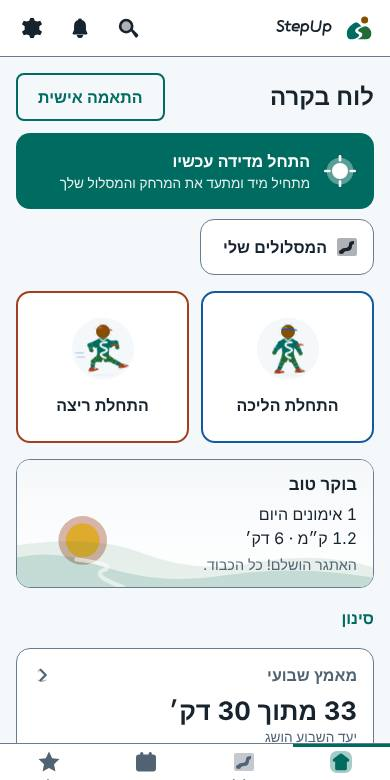
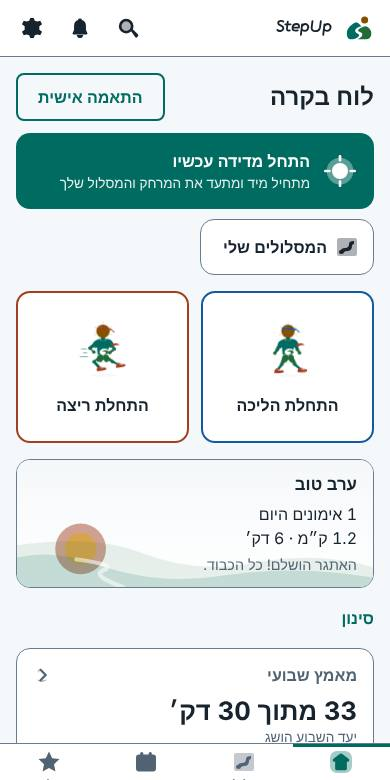
0.22.0: Trail from the designer rig with a round plate and larger figures (WIP)
Claude-Session: https://claude.ai/code/session_015MgUfxYvuaf2H4JGRA2gxD

diff --git a/web/sw.js b/web/sw.js
@@ -1,5 +1,5 @@
 // Offline-first service worker. VERSION is kept equal to version.json by scripts/bump-version.mjs (a unit test enforces it).
-const VERSION = '0.21.0';
+const VERSION = '0.22.0';
 const CACHE = `stepup-${VERSION}`;
 const SHELL = ['./', 'index.html', 'manifest.webmanifest', 'version.json', 'icon.svg', 'css/packs.css', 'css/app.css',
   'js/app.js', 'js/routePlan.js', 'js/planner.js', 'js/planApi.js', 'js/ui/mapScreen.js', 'js/ui/planner.js', 'js/theme-boot.js', 'js/util.js', 'js/i18n.js', 'js/native.js', 'js/icons.js', 'js/brand.js', 'js/brandData.js', 'js/iconData.js', 'js/geo.js', 'js/workout.js', 'js/metronome.js', 'js/cadence.js', 'js/audio.js', 'js/format.js', 'js/store.js', 'js/ui/home.js', 'js/plan.js', 'js/indicators.js', 'js/appVersion.js', 'js/art.js', 'js/voice.js', 'js/records.js', 'js/facts.js', 'js/actions.js', 'js/guide.js', 'js/strings08.js', 'js/strings09.js', 'js/figureData.js', 'js/ui/guide.js', 'art/workout/banner-afternoon-dark.svg', 'art/workout/banner-afternoon-light.svg', 'art/workout/banner-evening-dark.svg', 'art/workout/banner-evening-light.svg', 'art/workout/banner-morning-dark.svg', 'art/workout/banner-morning-light.svg', 'art/workout/banner-night-dark.svg', 'art/workout/banner-night-light.svg', 'art/workout/card-forest-dark.svg', 'art/workout/card-forest-light.svg', 'art/workout/card-ocean-dark.svg', 'art/workout/card-ocean-light.svg', 'art/workout/card-sunrise-dark.svg', 'art/workout/card-sunrise-light.svg', 'art/workout/count-1-dark.svg', 'art/workout/count-1-light.svg', 'art/workout/count-2-dark.svg', 'art/workout/count-2-light.svg', 'art/workout/count-3-dark.svg', 'art/workout/count-3-light.svg', 'art/workout/count-4-dark.svg', 'art/workout/count-4-light.svg', 'art/workout/count-5-dark.svg', 'art/workout/count-5-light.svg', 'art/workout/count-go-dark.svg', 'art/workout/count-go-light.svg', 'art/workout/hint-double-tap-dark.svg', 'art/workout/hint-double-tap-light.svg', 'art/workout/hint-volume-keys-dark.svg', 'art/workout/hint-volume-keys-light.svg', 'js/ui/workoutShare.js', 'js/shareCard.js', 'js/metrics.js', 'js/gpx.js', 'js/daypart.js', 'js/challenge.js', 'art/celebrate/avatar-frame-dark.svg', 'art/celebrate/avatar-frame-light.svg', 'art/celebrate/confetti-circle-dark.svg', 'art/celebrate/confetti-circle-light.svg', 'art/celebrate/confetti-curl-dark.svg', 'art/celebrate/confetti-curl-light.svg', 'art/celebrate/confetti-rectangle-dark.svg', 'art/celebrate/confetti-rectangle-light.svg', 'art/celebrate/confetti-star-dark.svg', 'art/celebrate/confetti-star-light.svg', 'art/celebrate/confetti-triangle-dark.svg', 'art/celebrate/confetti-triangle-light.svg', 'art/celebrate/distance-record-dark.svg', 'art/celebrate/distance-record-light.svg', 'art/celebrate/fastest-kilometre-dark.svg', 'art/celebrate/fastest-kilometre-light.svg', 'art/celebrate/forest-dark.svg', 'art/celebrate/forest-light.svg', 'art/celebrate/laurel-dark.svg', 'art/celebrate/laurel-light.svg', 'art/celebrate/longest-streak-dark.svg', 'art/celebrate/longest-streak-light.svg', 'art/celebrate/medal-dark.svg', 'art/celebrate/medal-light.svg', 'art/celebrate/most-workouts-week-dark.svg', 'art/celebrate/most-workouts-week-light.svg', 'art/celebrate/ocean-dark.svg', 'art/celebrate/ocean-light.svg', 'art/celebrate/pace-record-dark.svg', 'art/celebrate/pace-record-light.svg', 'art/celebrate/podium-floor-dark.svg', 'art/celebrate/podium-floor-light.svg', 'art/celebrate/podium-steps-dark.svg', 'art/celebrate/podium-steps-light.svg', 'art/celebrate/rays-dark.svg', 'art/celebrate/rays-light.svg', 'art/celebrate/ribbon-dark.svg', 'art/celebrate/ribbon-light.svg', 'art/celebrate/sunrise-dark.svg', 'art/celebrate/sunrise-light.svg', 'art/celebrate/trophy-dark.svg', 'art/celebrate/trophy-light.svg', 'js/podiumCard.js', 'js/ui/podium.js', 'js/mapView.js', 'js/ui/maptiles.js', 'js/backup.js', 'js/ui/backup.js', 'art/badges/almost-distance-dark.svg', 'art/badges/almost-distance-light.svg', 'art/badges/almost-record-dark.svg', 'art/badges/almost-record-light.svg', 'art/badges/faster-last-dark.svg', 'art/badges/faster-last-light.svg', 'art/badges/fastest-km-dark.svg', 'art/badges/fastest-km-light.svg', 'art/badges/new-record-dark.svg', 'art/badges/new-record-light.svg', 'art/badges/passed-distance-dark.svg', 'art/badges/passed-distance-light.svg', 'art/onboarding/caught-up-dark.svg', 'art/onboarding/caught-up-light.svg', 'art/onboarding/no-plan-dark.svg', 'art/onboarding/no-plan-light.svg', 'art/onboarding/no-routes-dark.svg', 'art/onboarding/no-routes-light.svg', 'art/onboarding/no-workouts-dark.svg', 'art/onboarding/no-workouts-light.svg', 'art/onboarding/offline-dark.svg', 'art/onboarding/offline-light.svg', 'art/onboarding/welcome-dark.svg', 'art/onboarding/welcome-light.svg', 'art/weather/clear-dark.svg', 'art/weather/clear-light.svg', 'art/weather/cloudy-dark.svg', 'art/weather/cloudy-light.svg', 'art/weather/cold-dark.svg', 'art/weather/cold-light.svg', 'art/weather/hot-dark.svg', 'art/weather/hot-light.svg', 'art/weather/rain-dark.svg', 'art/weather/rain-light.svg', 'art/weather/windy-dark.svg', 'art/weather/windy-light.svg', 'js/update.js', 'js/strings07.js', 'js/ui/about.js', 'js/strings06.js', 'js/ui/plan.js', 'js/schedule.js', 'js/widgetData.js', 'js/syncNative.js', 'js/strings05.js', 'js/route.js', 'js/routeReco.js', 'js/strings04.js', 'js/ui/routes.js', 'js/ui/livemap.js', 'js/forecast.js', 'js/reco.js', 'js/weatherApi.js', 'js/strings03.js', 'js/ui/reco.js', 'js/stats.js', 'js/steps.js', 'js/effort.js', 'js/reminders.js', 'js/alerts.js', 'js/search.js', 'js/charts.js', 'js/reminderLoop.js', 'js/strings02.js', 'js/ui/dashboard.js', 'js/ui/alerts.js', 'js/ui/search.js', 'js/ui/notify.js', 'js/ui/settings.js', 'js/ui/history.js', 'js/ui/workout.js', 'js/ui/rhythm.js',

diff --git a/web/css/app.css b/web/css/app.css
@@ -292,7 +292,7 @@ body[data-sun="1"][data-view="workout"] .val { font-weight: 900; } body[data-sun
 /* calm animations (Settings) stop every moving part; the poses and the needle stay where they are */
 html[data-calm="1"] .anim-on [class^="m-"], html[data-calm="1"] .anim-on [class*=" m-"], html[data-calm="1"].anim-on [class*="m-"] { animation: none !important; }
 html[data-calm="1"] .anim-on .tier1-icon [class^="m-"]:not(.m-needle), html[data-calm="1"] .anim-on .tier1-icon [class*=" m-"]:not(.m-needle) { transform: none !important; }
-.figure { display: block; flex: none; } .start-card .figure { inline-size: 64px; block-size: 64px; } .start-card { gap: 12px; } .welcome .figure, .summary .figure { inline-size: 96px; block-size: 96px; }
+.figure { display: block; flex: none; } .start-card .figure { inline-size: 80px; block-size: 80px; } .start-card { gap: 12px; } .welcome .figure, .summary .figure { inline-size: 112px; block-size: 112px; }
 .metric .cap .tier1-icon, .cap .tier1-icon { overflow: visible; }
 
 /* ---- Trail, the athlete (hand-built rig): moves only inside .anim-on; each limb turns around its own joint (--o-<part>, set from the file); the calm switch stops it ---- */
@@ -336,4 +336,6 @@ html[data-calm="1"] .trail-companion * { animation: none !important; }
 @media (prefers-reduced-motion: reduce) { .trail-companion * { animation: none !important; } }
 .welcome .figure, .summary .figure { inline-size: 96px; block-size: 96px; } .welcome .figure { margin-inline: auto; } .summary .figure { margin: 0 auto 4px; }
 .cdwrap { display: grid; justify-items: center; gap: 6px; } .cdwrap .cd-img { inline-size: min(44vmin, 240px); } .cdwrap .figure { inline-size: 110px; block-size: 110px; }
-.guide > .figure { margin: 0 auto 8px; inline-size: 96px; block-size: 96px; } .gtalk { display: flex; gap: 12px; align-items: flex-start; } .gtalk .figure { inline-size: 64px; block-size: 64px; } .gtalk .gtext { margin: 0; }
+.guide > .figure { margin: 0 auto 8px; inline-size: 112px; block-size: 112px; } .gtalk { display: flex; gap: 12px; align-items: flex-start; } .gtalk .figure { inline-size: 72px; block-size: 72px; } .gtalk .gtext { margin: 0; }
+/* the character stands on a soft round plate in the brand tint (the hand-built rig has no plate of its own) */
+.figure.trail-companion { border-radius: 50%; background: color-mix(in srgb, var(--primary) 9%, var(--surface)); }

diff --git a/web/js/appVersion.js b/web/js/appVersion.js
@@ -1,2 +1,2 @@
 // The version of the code that is running (kept equal to version.json by scripts/bump-version.mjs; a unit test enforces it).
-export const APP_VERSION = '0.21.0';
+export const APP_VERSION = '0.22.0';

diff --git a/docs/CONTEXT.md b/docs/CONTEXT.md
@@ -6,8 +6,8 @@ Read this first in a new session. It says what the product is, where everything 
 **StepUp** (repo `ohadsam/distance_analyzer`): a walking and running tracker. One vanilla-JS web app (`web/`, no build step, no runtime dependencies) shipped as a **PWA** (GitHub Pages) and as a thin **Android WebView app** (`android/`, same `web/` folder as assets). Hebrew (RTL) is the default, English is chosen in Settings. No server, no account; data stays on the device. Branch `main` is the primary branch.
 Owner's standing rules live in `.claude/skills/release-checklist/SKILL.md` (section 0). Requests and their status: `docs/REQUESTS.md`. Plan: `docs/ROADMAP.md`.
 
-## Status (0.21.0)
-Done: **Trail V5 (15 connected poses) with the countdown and the guide (0.21.0)**, **Trail as an athlete (kit V3) on the start cards, welcome, summary and the user guide (0.20.0)**, **redesigned single-colour icons, Trail (the logo-born companion character, 8 poses) on the start cards / welcome / summary, live speed gauge, active navigation icons, calm-animations switch (0.19.0)**, **user guide (interactive tour with screenshots), search over actions / your data / the guide, a clear live map, a quiet first-run home, map screen with distance measuring, route planner by address and distance (0.18.0)**, **workout visual kit: banners, workout cards, countdown numerals, hints, number icons (0.17.0)**, **choose your workout numbers, day card, history sort/records/GPX/share picture, hands-free, countdown, wide layout (0.16.0)**, **new minimal workout screen, background voice, stop hint, sunlight mode, weekly challenge + Sunday summary, kit podium (0.15.0)**, **opt-in street map, battery optimisation, record celebration with victory photo (0.14.0)**, **backup/restore, week-bars widget, monthly summary (0.13.0)**, **rhythm coach and charts in the kit's look, folded filters, spoken cues (0.12.0)**, **kit art integrated: empty states, weather banner, indication badges, widget backgrounds, Android 12 splash (0.11.0)**, **update check, newest-APK download and share from inside the app (0.10.0)**, **two more Android widgets (last workout, next session) with a designed background (0.9.1, launcher verification pending)**, **bottom navigation, collapsible settings, lighter first dashboard, welcome card (0.9.0)**, **live in-workout indications (records, last time, faster km - 0.8.1)**, **training plans (build, week view, auto-match, gentle catch-up, reminders - 0.8.1)**, Android home-screen widgets (steps, weekly effort, measure now - 0.7.0, launcher verification pending)**, Android background (screen-off tracking, all-day steps, notifications when closed - 0.6.0, real-device verification pending)**, quick actions, routes (save, recognise, progress, suggestions, one-time, follow with ghost), tile-less live map (0.5.0)**, recommendations by weather and routine (0.4.0, opt-in network)**, workout mode (GPS distance/pace/splits, pause, lock, resume), smart rhythm coach (metronome + breathing guide), history, design foundation + StepUp brand, effort bar by age and history with deviation alerts, quality-weighted steps, dashboard (customisable widgets, filters, drill-down), alerts inbox, global search, reminders (fixed + smart nudges, while the app is open), manual weather per workout with weather-aware stats.
+## Status (0.22.0)
+Done: **Trail from the designer brief (10 poses, per-pose joint pivots) (0.22.0)**, **Trail V5 (15 connected poses) with the countdown and the guide (0.21.0)**, **Trail as an athlete (kit V3) on the start cards, welcome, summary and the user guide (0.20.0)**, **redesigned single-colour icons, Trail (the logo-born companion character, 8 poses) on the start cards / welcome / summary, live speed gauge, active navigation icons, calm-animations switch (0.19.0)**, **user guide (interactive tour with screenshots), search over actions / your data / the guide, a clear live map, a quiet first-run home, map screen with distance measuring, route planner by address and distance (0.18.0)**, **workout visual kit: banners, workout cards, countdown numerals, hints, number icons (0.17.0)**, **choose your workout numbers, day card, history sort/records/GPX/share picture, hands-free, countdown, wide layout (0.16.0)**, **new minimal workout screen, background voice, stop hint, sunlight mode, weekly challenge + Sunday summary, kit podium (0.15.0)**, **opt-in street map, battery optimisation, record celebration with victory photo (0.14.0)**, **backup/restore, week-bars widget, monthly summary (0.13.0)**, **rhythm coach and charts in the kit's look, folded filters, spoken cues (0.12.0)**, **kit art integrated: empty states, weather banner, indication badges, widget backgrounds, Android 12 splash (0.11.0)**, **update check, newest-APK download and share from inside the app (0.10.0)**, **two more Android widgets (last workout, next session) with a designed background (0.9.1, launcher verification pending)**, **bottom navigation, collapsible settings, lighter first dashboard, welcome card (0.9.0)**, **live in-workout indications (records, last time, faster km - 0.8.1)**, **training plans (build, week view, auto-match, gentle catch-up, reminders - 0.8.1)**, Android home-screen widgets (steps, weekly effort, measure now - 0.7.0, launcher verification pending)**, Android background (screen-off tracking, all-day steps, notifications when closed - 0.6.0, real-device verification pending)**, quick actions, routes (save, recognise, progress, suggestions, one-time, follow with ghost), tile-less live map (0.5.0)**, recommendations by weather and routine (0.4.0, opt-in network)**, workout mode (GPS distance/pace/splits, pause, lock, resume), smart rhythm coach (metronome + breathing guide), history, design foundation + StepUp brand, effort bar by age and history with deviation alerts, quality-weighted steps, dashboard (customisable widgets, filters, drill-down), alerts inbox, global search, reminders (fixed + smart nudges, while the app is open), manual weather per workout with weather-aware stats.
 Not done / known limits: the smart "no movement" nudge works only while the app is open; Android background features are verified only by a stand-in bridge and CI; internet is used only on request: the weather forecast (opt-in, Open-Meteo), update check (GitHub), map tiles (opt-in, OpenStreetMap) and the route planner (opt-in, four public services) - its live answer is unverified (sandbox blocks the host); automatic weather *per workout* (history) is still not built; the route planner's live answers (Nominatim, FOSSGIS OSRM, Open-Meteo elevation, Overpass) are only verified against stand-ins because the sandbox blocks those hosts, and its crossing / sidewalk reading depends on how well OpenStreetMap is mapped where you are; Kotlin is only compiled in CI; sensor thresholds are tuned on synthetic data, not a real run; steps are estimated from tracked workouts (no passive counter yet).
 
 ## How to run and verify

diff --git a/docs/CHANGELOG.md b/docs/CHANGELOG.md
@@ -1,5 +1,12 @@
 # Changelog
 
+## 0.22.0
+- **Trail from the designer brief** (`docs/DESIGNER_BRIEF.md`, `design/stepup/round9/`): a slimmer athlete with the headband in the upper third of the sun head, a clean jersey with a small S-swirl, thin jointed limbs, ten poses in the app: idle, walk, run, sprint, finish, cheer, wave, ready, stretch, cooldown (light and dark). **Per-pose joint pivots**: the build reads each limb's first circle (the joint) and the figure sets `--o-<part>` so the motion CSS turns every limb around its own joint (`pivotsOf` in `scripts/build-design.mjs`). She stands on a soft round plate in the brand tint.
+- Honest note: the delivery says it was generated with AI-assisted code, not drawn by hand, and several of its poses were left out because they were broken (sit, sleep and start-crouch float or are cut off; focus and rest were replaced by the pose set above). The countdown now shows `ready` for 3-2-1 and `sprint` for "Go".
+- `scripts/check-trail-svg.mjs` validates any pose file against the rig contract (checked by a unit test for every pose built in).
+- Guide screenshots regenerated (Hebrew and English, 20 steps).
+- Verified: static checks, 129 unit tests, the full e2e, the Hebrew + English journey (92 screens; the only audit finding is the 24 px OpenStreetMap credit link). Not verified on a device.
+
 ## 0.21.0
 - **Trail V5** (`design/stepup/round9/`): the athlete is now one connected figure (neck, jersey, shorts, shoes, a sun head with a headband) in **fifteen poses**: idle, walk, run, sprint, finish, cheer, rest, wave, focus, ready, stretch, cooldown, start-crouch, sit, sleep. The kit's motion CSS animates walk, run, sprint, cooldown and loading; the other poses are still. Calm animations and the phone's reduce-motion setting stop everything.
 - **Trail in more places**: the countdown shows her crouching for 3-2-1 and sprinting at "Go"; the guide tour changes her pose from step to step (a wave to start, a cheer at the end); start cards, welcome and summary keep walk / run / wave / finish.

diff --git a/docs/REQUESTS.md b/docs/REQUESTS.md
@@ -84,3 +84,4 @@ Status: ✅ shipped (version) · 🟡 partly (what is missing) · ⛔ not possib
 | 67 | Round 9e prompt: fix the logo on the jersey, headband, sleep pose, and redo the scenes | 🟡 prompt ready: `docs/prompts/ROUND9E_PROMPT.md` |
 | 68 | Review Athlete V6 and integrate if good | ⛔ V6 reviewed and not integrated (the kit itself says not release-ready; the requested logo / headband / sleep fixes are missing); V5 stays |
 | 69 | Draw the Trail character by hand (designer): brief, reference pack and a validator | 🟡 `docs/DESIGNER_BRIEF.md`, `designer-pack.zip`, `scripts/check-trail-svg.mjs`; waiting for the designer's files |
+| 70 | Integrate the designer's Trail rig | ✅ 0.22.0 (10 of the 15 delivered poses; the broken ones left out, see the changelog) |
